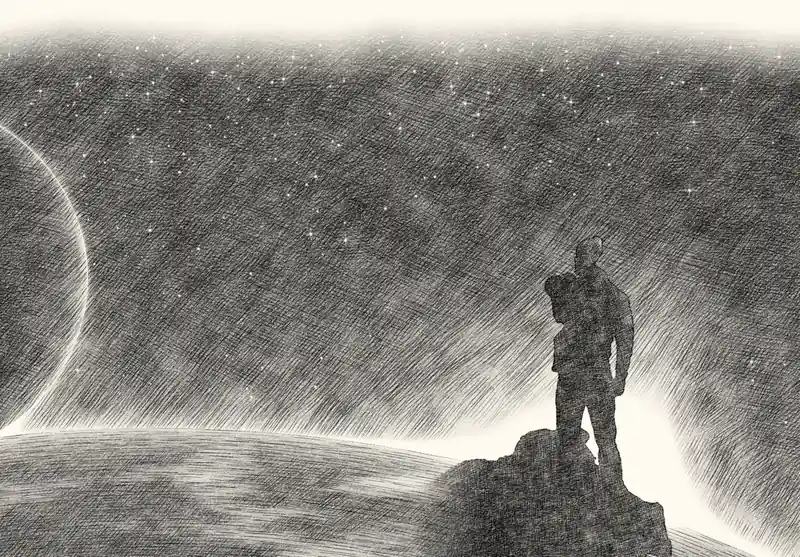
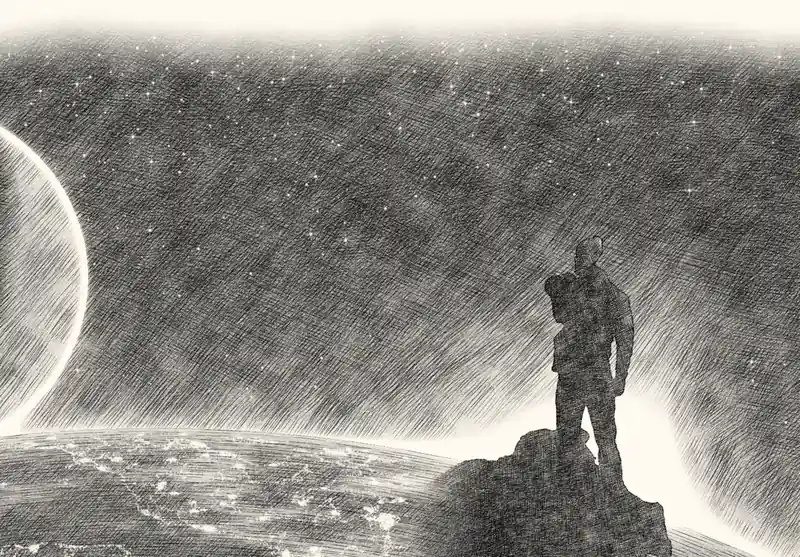
Add night lights, a crescent and a rocket launch to the footer drawing
The planet is now lit from the right as a crescent. Night lights cover
the Earth and the planet's night side as in photos taken from space:
lit coastlines outlining generated continents, a web of towns and a few
brighter cities. A rocket climbs from the horizon on the left.

Session: claude://claude.ai/epitaxy/local_8bf3452f-ca40-4c1d-a549-1e6323dcae47

Changed region(s): [[0.0, 0.763, 0.5312, 1.0], [0.0, 0.2136, 0.125, 0.763], [0.0, 0.9767, 0.1562, 1.0]]

diff --git a/bin/footer-drawing/extras.py b/bin/footer-drawing/extras.py
@@ -1,0 +1,228 @@
+"""Signs of people: night lights on the Earth and on the planet's night side,
+and a rocket climbing from the Earth.
+
+Writes, as MVG for ImageMagick:
+  lights.mvg       night lights (eraser marks, white on black)
+  lights-glow.mvg  the brighter lights' glow, to be blurred
+  rocket.mvg       the rocket's lit body, flame, plume and trail (eraser marks)
+  rocket-glow.mvg  their haze, to be blurred
+  rocket-ink.mvg   the rocket's outline and shading (pencil, white on black = graphite)
+"""
+import math, random, sys
+from erase import RING, LIMB
+from strokes import W, H, Noise
+
+FIGURE = (1640, 380)  # the man and his rock lie right of and below this
+# Where the planet's light comes from: the right, and from behind it, so it
+# shows a crescent. tone.fx shades it with the same vector.
+LIGHT = (.88, .22, -.42)
+
+
+def limb_y(x):
+    cx, cy, r = LIMB
+    return cy - math.sqrt(r * r - (x - cx) ** 2)
+
+
+# --- Night lights -------------------------------------------------------------
+# As in photos of the Earth at night: continents traced by lit coastlines, the
+# land covered in a web of faint lights along roads, bright cities at its nodes.
+# Generated on a flat map, then projected onto the Earth or the planet.
+
+def lights_map(rnd, w, h, seed, cities, specks):
+    """Returns lights as (u, v, brightness, core) on a w by h map."""
+    octaves = [(Noise(seed + k, 300 / 2 ** k), .5 ** k) for k in range(4)]
+
+    def height(u, v):
+        return sum(n(u, v) * a for n, a in octaves)
+
+    def land(u, v):
+        return height(u, v) > -.05
+
+    def coastal(u, v):
+        return math.exp(-((height(u, v) + .05) / .07) ** 2)
+
+    out = []
+    # Cities, more of them along the coasts, mostly small, a few big
+    towns = []
+    while len(towns) < cities:
+        u, v = rnd.uniform(0, w), rnd.uniform(0, h)
+        if land(u, v) and rnd.random() < .2 + .8 * coastal(u, v):
+            towns.append((u, v, 1.5 + 14 * rnd.random() ** 5))
+    for u, v, size in towns:
+        for k in range(int(2 + size * size * .3)):
+            d = abs(rnd.gauss(0, size * .45))
+            a = rnd.uniform(0, 2 * math.pi)
+            pu, pv = u + math.cos(a) * d, v + math.sin(a) * d
+            if land(pu, pv):
+                out.append((pu, pv, min(1, .3 + size / 18) * math.exp(-d / size), size > 7 and d < size * .25))
+    # Roads to the nearest towns, lit by the villages along them
+    for i, (u, v, size) in enumerate(towns):
+        near = sorted(towns, key=lambda t: (t[0] - u) ** 2 + (t[1] - v) ** 2)[1:4]
+        for tu, tv, _ in near:
+            L = math.hypot(tu - u, tv - v)
+            if L > 95:
+                continue
+            bend = rnd.uniform(-.2, .2)
+            for k in range(int(L / 4)):
+                t = k / max(1, L / 4)
+                pu = u + (tu - u) * t - (tv - v) * bend * math.sin(t * math.pi)
+                pv = v + (tv - v) * t + (tu - u) * bend * math.sin(t * math.pi)
+                pu += rnd.gauss(0, 1.5); pv += rnd.gauss(0, 1.5)
+                if land(pu, pv) and rnd.random() < .6:
+                    out.append((pu, pv, rnd.uniform(.18, .34), False))
+    # Coasts, lit almost everywhere
+    for _ in range(specks):
+        u, v = rnd.uniform(0, w), rnd.uniform(0, h)
+        if not land(u, v):
+            continue
+        c = coastal(u, v)
+        if rnd.random() < .12 + .88 * c:
+            out.append((u, v, rnd.uniform(.12, .26) + .4 * c, False))
+    return out
+
+
+def draw_lights(f, glow, rnd, lights, project):
+    for u, v, b, core in lights:
+        p = project(u, v)
+        if p is None:
+            continue
+        x, y, fade = p
+        b *= fade
+        if b < .06:
+            continue
+        r = (1.1 + .5 * b) if core else (.9 + .5 * b)
+        f.write(f'fill-opacity {min(1, .5 + .8 * b):.2f}\ncircle {x:.1f},{y:.1f} {x + r:.1f},{y:.1f}\n')
+        if core:
+            glow.write(f'fill-opacity {.03 + .05 * b:.2f}\ncircle {x:.1f},{y:.1f} {x + 6:.1f},{y:.1f}\n')
+
+
+EARTH_DEPTH = 700  # map units from the bottom of the picture to the horizon
+
+
+def earth_project(u, v):
+    """Map u runs along the picture, v from the bottom edge to the horizon,
+    crowding together toward the horizon as the ground recedes."""
+    x = u
+    top = limb_y(x) + 6
+    if top >= H:
+        return None
+    t = v / EARTH_DEPTH
+    if not 0 <= t < 1:
+        return None
+    y = top + (H - top) * (1 - t) ** 1.7
+    if x > FIGURE[0] and y > FIGURE[1]:
+        return None
+    return x, y, min(1, (y - top) / 25) * (1 - .4 * t)
+
+
+def planet_normal(lat, lon):
+    return math.cos(lat) * math.sin(lon), -math.sin(lat), math.cos(lat) * math.cos(lon)
+
+
+def planet_project(u, v):
+    """Map units are the planet's radius times longitude and latitude."""
+    cx, cy, r = RING
+    lat, lon = v / r - 1.5, u / r - 1.6
+    n = planet_normal(lat, lon)
+    if n[2] <= .05:
+        return None
+    d = sum(a * b for a, b in zip(n, LIGHT))
+    if d > -.02:
+        return None  # daylight
+    x, y = cx + r * n[0], cy + r * n[1]
+    if math.hypot(x - cx, y - cy) > r - 5 or y > limb_y(x) - 4:
+        return None
+    return x, y, min(1, n[2] * 2.5)  # dimmer toward the rim, through more air
+
+
+# --- Rocket -------------------------------------------------------------------
+
+def bezier(p0, p1, p2, t):
+    return tuple((1 - t) ** 2 * a + 2 * (1 - t) * t * b + t * t * c for a, b, c in zip(p0, p1, p2))
+
+
+# The vehicle, nose along +x, engine exit at the origin: a slender two-stage
+# rocket with a pointed fairing, small fins and an engine bell
+BODY = "M 4 -3.6 L 58 -3.6 C 66 -3.4, 72 -1.6, 77 0 C 72 1.6, 66 3.4, 58 3.6 L 4 3.6 Z"
+BELL = "M 0 -3 L 4 -2.3 L 4 2.3 L 0 3 Z"
+FINS = ("M 4 -3.6 L 13 -3.6 L 6 -7.5 L 3 -7.5 Z", "M 4 3.6 L 13 3.6 L 6 7.5 L 3 7.5 Z")
+
+
+def rocket(out, rnd):
+    """A rocket climbing from the far left of the horizon, pitching over toward
+    the planet: its trail, the plume fanning out behind it in thin air, and the
+    vehicle, lit from the right."""
+    p0 = (40, limb_y(40) - 2)
+    p1 = (60, 660)
+    p2 = (240, 440)
+    ux, uy = p2[0] - p1[0], p2[1] - p1[1]
+    n = math.hypot(ux, uy)
+    ux, uy = ux / n, uy / n
+    ang = math.degrees(math.atan2(uy, ux))
+    pts = [bezier(p0, p1, p2, k / 160) for k in range(161)]
+    head = p2  # the engine
+    local = f'push graphic-context\ntranslate {head[0]:.1f},{head[1]:.1f}\nrotate {ang:.1f}\nscale 1.6,1.6\n'
+
+    def fan(f, length, half, rays, width, opacity, edge):
+        """Lines from the engine, fanning backwards; brighter along the edges."""
+        for k in range(rays):
+            t = k / (rays - 1)
+            a = math.radians(ang + 180 + (t * 2 - 1) * half)
+            L = length * rnd.uniform(.85, 1) * (1 - .25 * abs(t * 2 - 1))
+            o = opacity * (edge if t in (0, 1) else 1)
+            f.write(f'stroke-width {width}\nstroke-opacity {o:.2f}\n'
+                    f'line {head[0]:.1f},{head[1]:.1f} {head[0] + math.cos(a) * L:.1f},{head[1] + math.sin(a) * L:.1f}\n')
+
+    with open(f'{out}/rocket.mvg', 'w') as f:
+        f.write(f'viewbox 0 0 {W} {H}\nfill none\nstroke white\nstroke-linecap round\n')
+        # the trail: barely there near the ground, firmer as it climbs
+        for k in range(0, 150, 2):
+            t = k / 150
+            seg = pts[k:k + 3]
+            f.write(f'stroke-width {1 + 2.4 * t:.2f}\nstroke-opacity {.2 + .7 * t:.2f}\n'
+                    'path \'M ' + ' L '.join(f'{x:.1f} {y:.1f}' for x, y in seg) + "'\n")
+        fan(f, 130, 20, 19, 1, .3, 2.6)
+        f.write(local + 'stroke none\nfill white\n')
+        # flame
+        f.write('fill-opacity 1\nellipse -7,0 8,2.4 0,360\nfill-opacity .6\nellipse -14,0 14,4 0,360\n')
+        # the body, pale, and brighter on its sunlit side (local +y faces right)
+        f.write(f'fill-opacity .55\npath \'{BODY}\'\npath \'{BELL}\'\n')
+        for fin in FINS:
+            f.write(f'path \'{fin}\'\n')
+        f.write('fill-opacity .9\npath \'M 6 .6 L 58 .6 L 58 3.4 L 6 3.4 Z\'\npath \'M 58 .6 L 58 3.4 C 66 3.2, 72 1.5, 77 0 Z\'\n')
+        f.write('pop graphic-context\n')
+
+    with open(f'{out}/rocket-glow.mvg', 'w') as f:
+        f.write(f'viewbox 0 0 {W} {H}\nfill none\nstroke white\nstroke-linecap round\n')
+        for k in range(0, 150, 4):
+            t = k / 150
+            seg = pts[k:k + 5]
+            f.write(f'stroke-width {5 + 12 * t:.1f}\nstroke-opacity {.08 + .22 * t:.2f}\n'
+                    'path \'M ' + ' L '.join(f'{x:.1f} {y:.1f}' for x, y in seg) + "'\n")
+        fan(f, 140, 22, 30, 6, .32, 1)
+        f.write(f'stroke none\nfill white\nfill-opacity .9\ncircle {head[0]:.1f},{head[1]:.1f} {head[0] + 14:.1f},{head[1]:.1f}\n')
+
+    with open(f'{out}/rocket-ink.mvg', 'w') as f:
+        f.write(f'viewbox 0 0 {W} {H}\nfill none\nstroke white\nstroke-linecap round\nstroke-linejoin round\n' + local)
+        f.write(f'stroke-width 1\nstroke-opacity .85\npath \'{BODY}\'\npath \'{BELL}\'\n')
+        for fin in FINS:
+            f.write(f'path \'{fin}\'\n')
+        # interstage and fairing joints
+        f.write('stroke-width .8\nstroke-opacity .6\nline 30,-3.6 30,3.6\nline 46,-3.6 46,3.6\nline 58,-3.6 58,3.6\n')
+        # shading along the side away from the light
+        f.write('stroke-width .7\nstroke-opacity .55\nline 6,-2.6 57,-2.6\nline 6,-1.6 56,-1.6\nline 59,-2.3 70,-1.1\n')
+        f.write('pop graphic-context\n')
+
+
+def main(out):
+    rnd = random.Random(2021)
+    with open(f'{out}/lights.mvg', 'w') as f, open(f'{out}/lights-glow.mvg', 'w') as glow:
+        for g in (f, glow):
+            g.write(f'viewbox 0 0 {W} {H}\nstroke none\nfill white\n')
+        draw_lights(f, glow, rnd, lights_map(rnd, 1650, EARTH_DEPTH, 300, 650, 40000), earth_project)
+        draw_lights(f, glow, rnd, lights_map(rnd, 1090, 1020, 400, 420, 26000), planet_project)
+    rocket(out, rnd)
+
+
+if __name__ == '__main__':
+    main(sys.argv[1])
